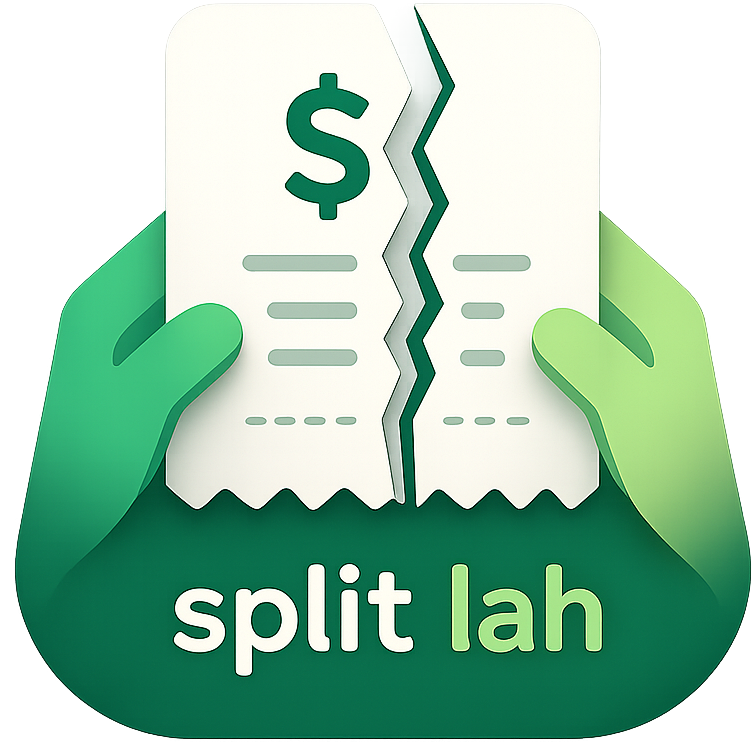
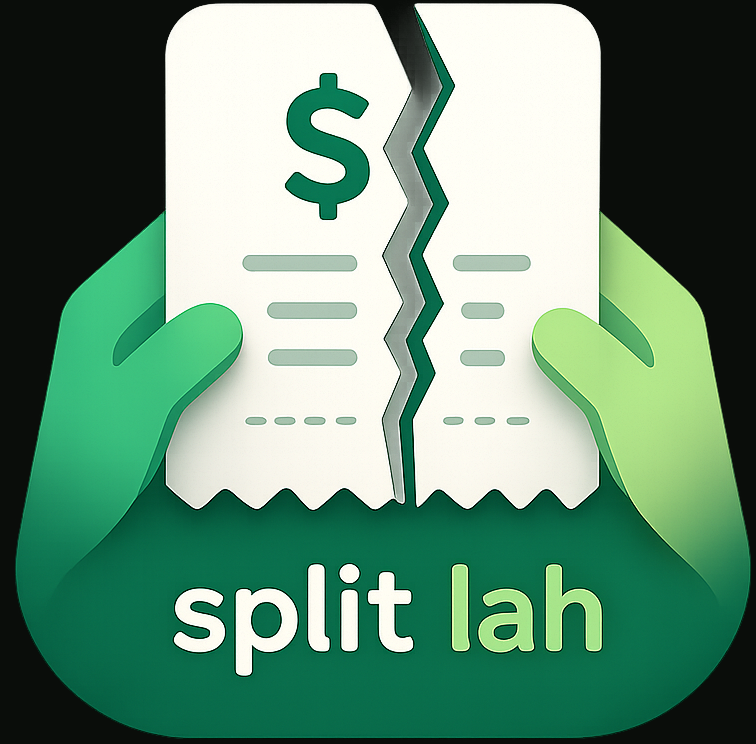
dont let user zoom in and out finish background color

Changed region(s): [[0.0, 0.0, 1.0, 1.0], [0.5172, 0.5565, 0.5476, 0.6183]]

diff --git a/fix_icon_bg.js b/fix_icon_bg.js
@@ -1,0 +1,34 @@
+const { Jimp } = require('jimp');
+const path = require('path');
+
+async function fixIcon() {
+  const iconPath = path.join(__dirname, 'public/app_icon.png');
+  const image = await Jimp.read(iconPath);
+  
+  // Create a new image filled with the app's dark background color (#0A0D0A)
+  // In Jimp v1, Jimp.create is typically used, but `new Jimp` might work.
+  // Actually, let's just color the background by scanning all pixels and if alpha is 0, make it #0A0D0A.
+  
+  image.scan((x, y, idx) => {
+    const alpha = image.bitmap.data[idx + 3];
+    if (alpha < 255) {
+      // If transparent, blend with #0A0D0A (R=10, G=13, B=10)
+      const r = image.bitmap.data[idx];
+      const g = image.bitmap.data[idx + 1];
+      const b = image.bitmap.data[idx + 2];
+      
+      const factor = alpha / 255;
+      const inv = 1 - factor;
+      
+      image.bitmap.data[idx] = Math.round(r * factor + 10 * inv);
+      image.bitmap.data[idx + 1] = Math.round(g * factor + 13 * inv);
+      image.bitmap.data[idx + 2] = Math.round(b * factor + 10 * inv);
+      image.bitmap.data[idx + 3] = 255; // Set alpha to fully opaque
+    }
+  });
+
+  await image.write(iconPath);
+  console.log('Done! Icon background is now dark.');
+}
+
+fixIcon().catch(console.error);

diff --git a/app/layout.tsx b/app/layout.tsx
@@ -1,11 +1,18 @@
-import type { Metadata } from "next";
+import type { Metadata, Viewport } from "next";
 import "./globals.css";
+
+export const viewport: Viewport = {
+  themeColor: "#00c896",
+  width: "device-width",
+  initialScale: 1,
+  maximumScale: 1,
+  userScalable: false,
+};
 
 export const metadata: Metadata = {
   title: "SplitLah — Receipt Splitter",
   description: "Scan receipts, split bills, pay via TNG",
   manifest: "/manifest.json",
-  themeColor: "#00c896",
   icons: {
     icon: "/app_icon.png",
     apple: "/app_icon.png",
@@ -14,12 +21,6 @@ export const metadata: Metadata = {
     capable: true,
     statusBarStyle: "black-translucent",
     title: "SplitLah",
-  },
-  viewport: {
-    width: "device-width",
-    initialScale: 1,
-    maximumScale: 1,
-    userScalable: false,
   },
 };
 
